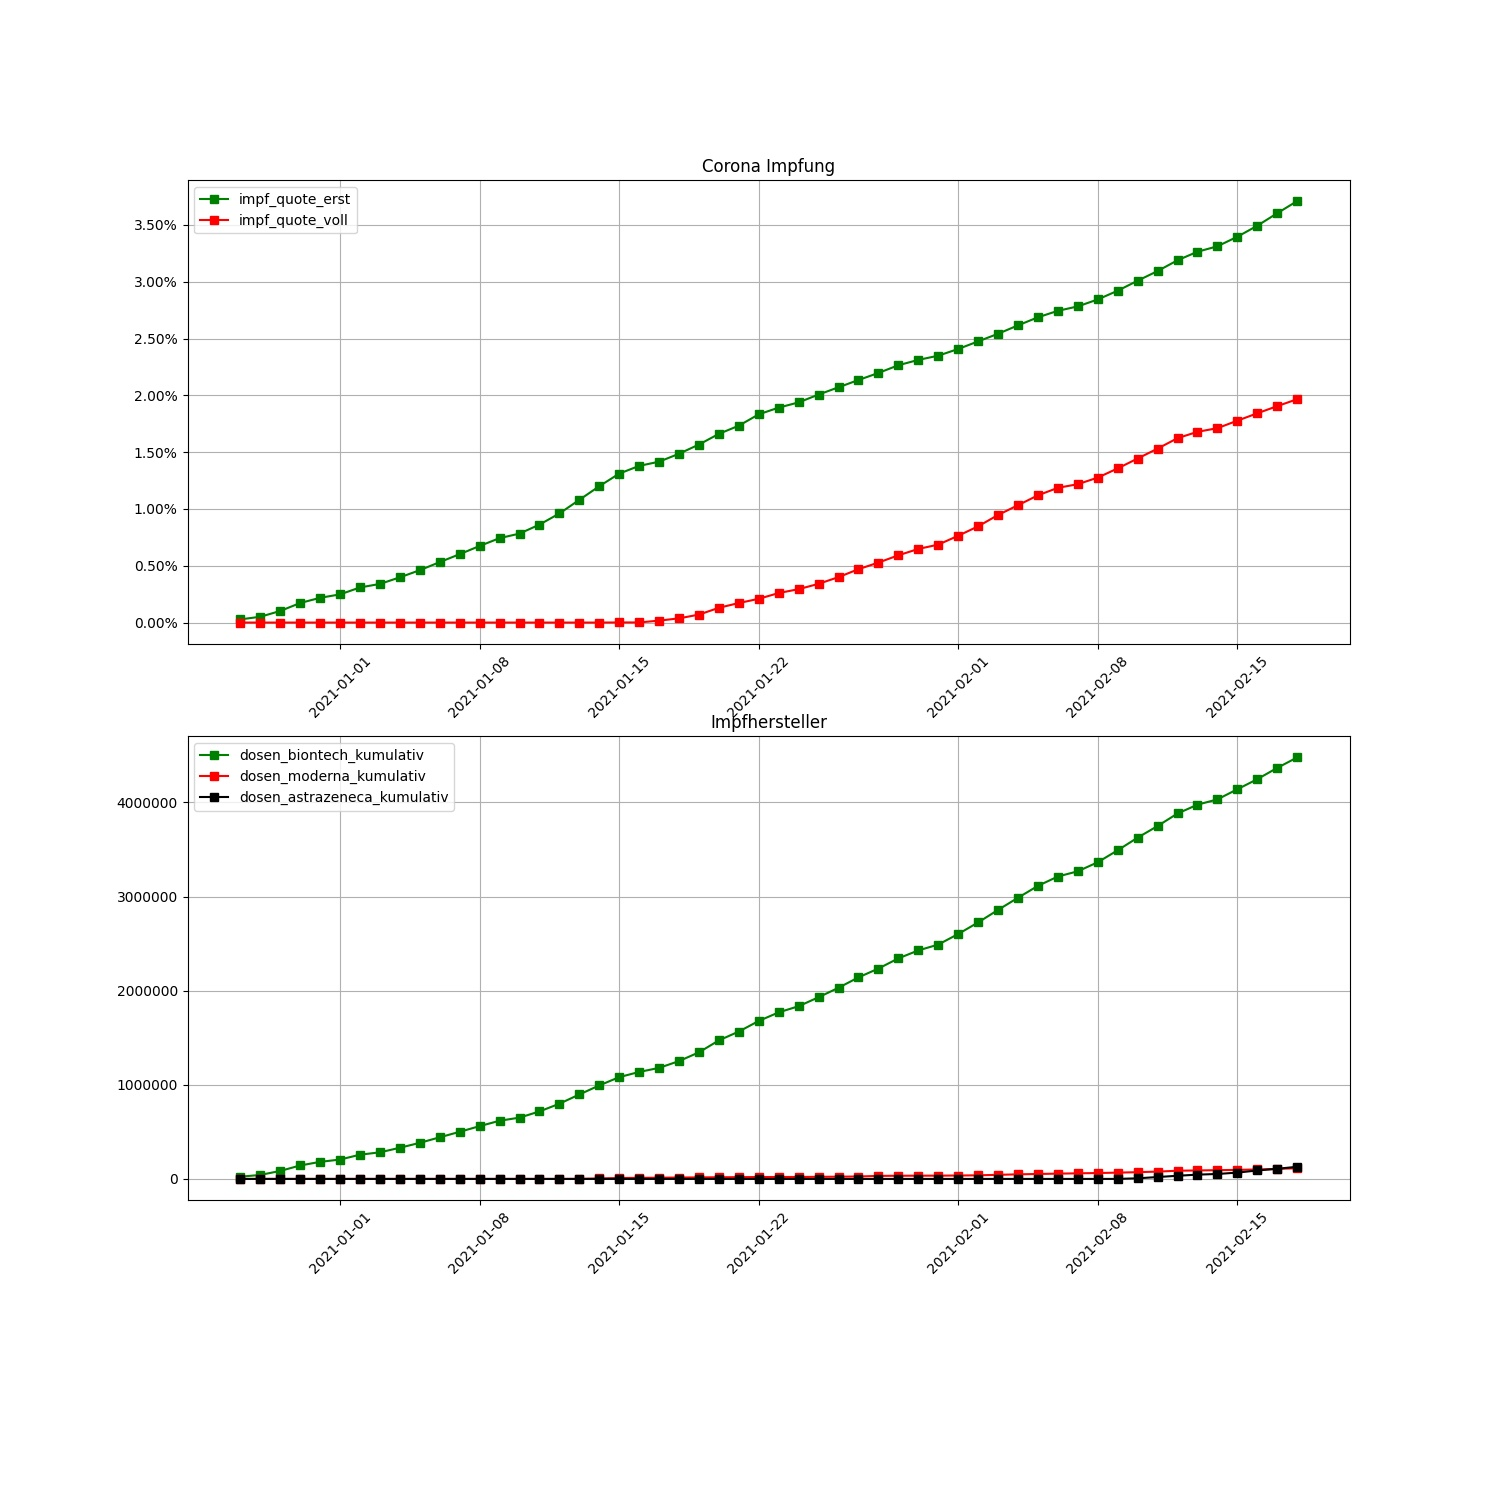
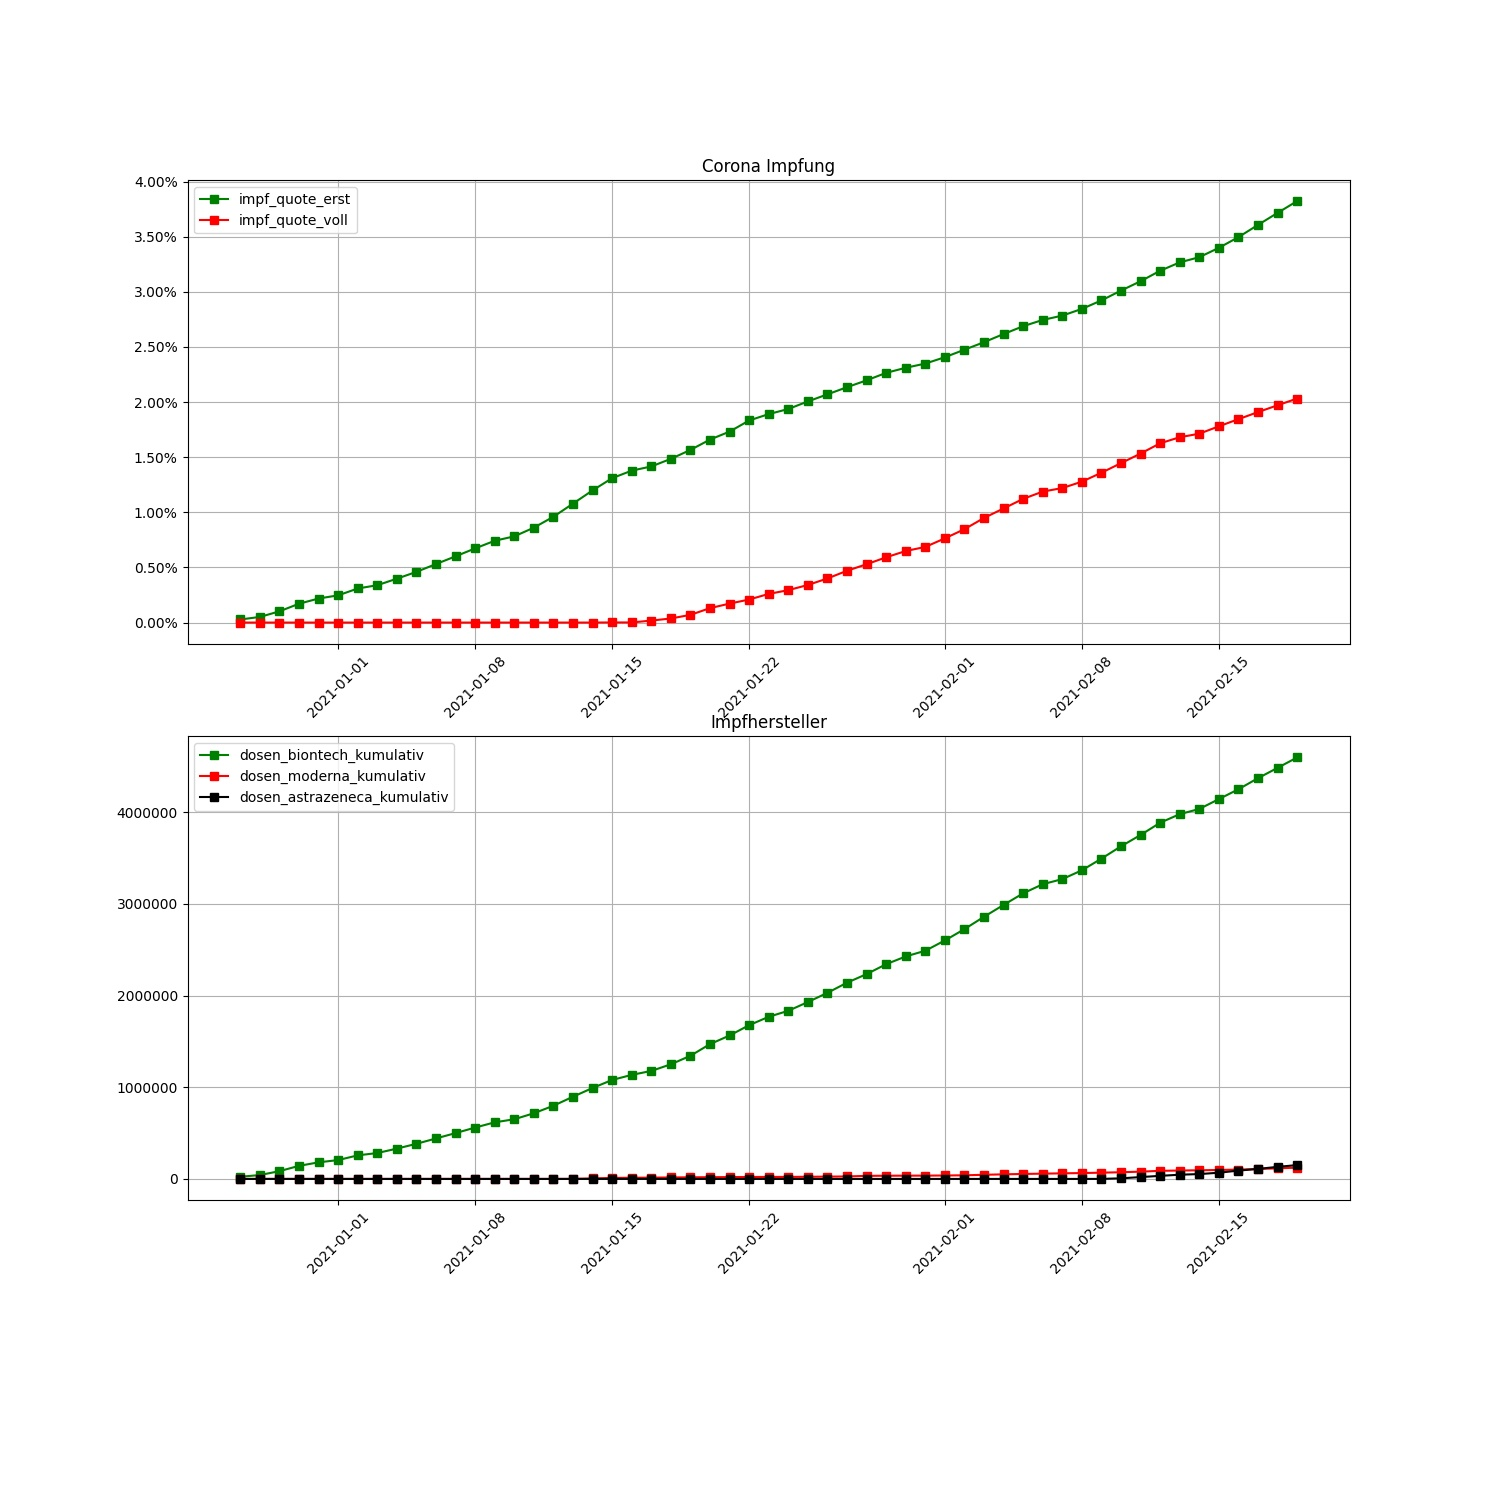
Crontab commit

diff --git a/Readme.md b/Readme.md
@@ -1,19 +1,19 @@
-# Corona vaccine Germany - Stand 2021-02-18
+# Corona vaccine Germany - Stand 2021-02-19
 ## Dashboard by [Simon Hamacher](https://www.shamacher.eu)
 ## Impfstoffe Übersicht
 **Impfstoffhersteller** | **verimpfte Dosen**
 -------- | :--------:
-Biontech | 4477310
-Moderna | 113569
-Astrazeneca | 129021
+Biontech | 4595777
+Moderna | 122975
+Astrazeneca | 150889
 
 
 ## Quoten
-**Total Verimpfte Dosen:** | 4719900
+**Total Verimpfte Dosen:** | 4869641
 -------- | :--------:
-**Erst-Impfquote** | 3.71 %
-**Voll-Impfquote** | 1.97 %
-**Imfungen Durchschnitt** | 87405.56 pro Tag
+**Erst-Impfquote** | 3.82 %
+**Voll-Impfquote** | 2.03 %
+**Imfungen Durchschnitt** | 88538.93 pro Tag
 ## Graphen
 <img src="Impfungen-Corona-01.jpg" alt="Corona-1" title="optionaler Titel" />
 <img src="Impfungen-Corona-02.jpg" alt="Corona-2" title="optionaler Titel" />
